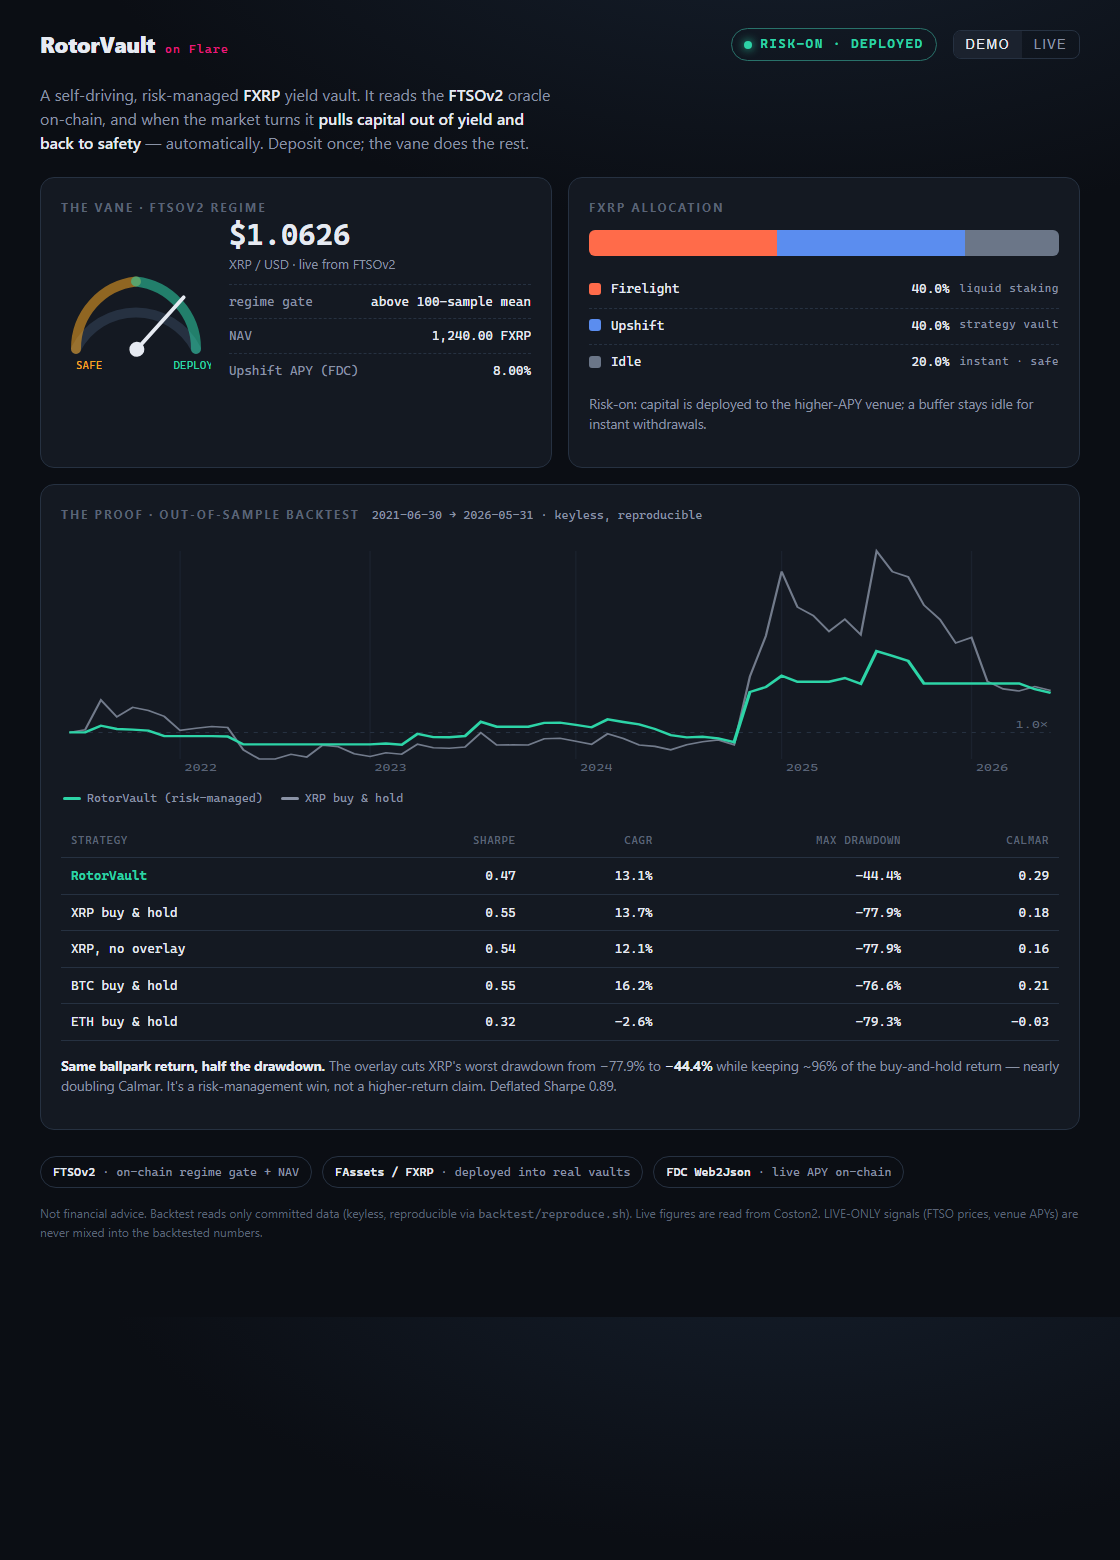
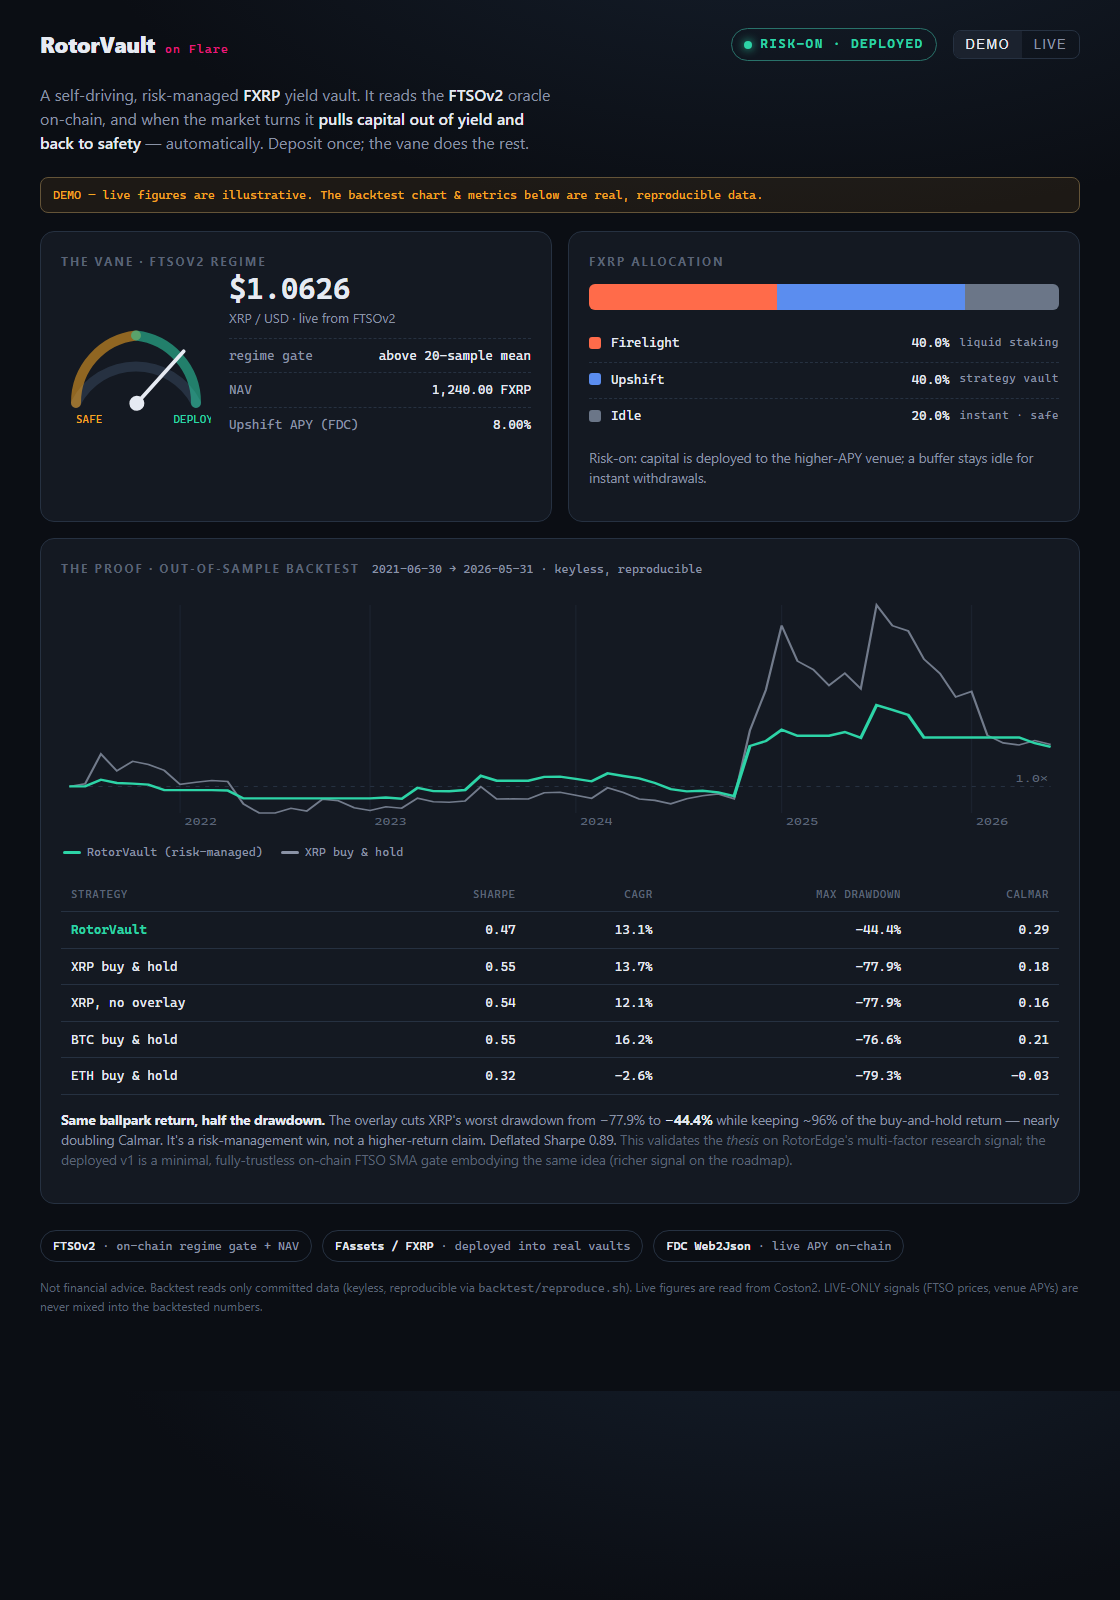
docs+web: reframe proof (thesis on RotorEdge signal vs deployed minimal v1 SMA gate); dashboard N=20 + DEMO badge + warming state

diff --git a/web/index.html b/web/index.html
@@ -143,7 +143,7 @@
           <div class="big" id="price">$1.0626</div>
           <div class="sub">XRP / USD · live from FTSOv2</div>
           <div style="height:10px"></div>
-          <div class="kv"><span class="k">regime gate</span><span class="v" id="gate">above 100-sample mean</span></div>
+          <div class="kv"><span class="k">regime gate</span><span class="v" id="gate">above 20-sample mean</span></div>
           <div class="kv"><span class="k">NAV</span><span class="v" id="nav">1,240.00 FXRP</span></div>
           <div class="kv"><span class="k">Upshift APY (FDC)</span><span class="v" id="apy">8.00%</span></div>
         </div>
@@ -184,7 +184,9 @@
     </table>
     <p class="callout"><b>Same ballpark return, half the drawdown.</b> The overlay cuts XRP's worst drawdown from
       −77.9% to <b>−44.4%</b> while keeping ~96% of the buy-and-hold return — nearly doubling Calmar. It's a
-      risk-management win, not a higher-return claim. Deflated Sharpe 0.89.</p>
+      risk-management win, not a higher-return claim. Deflated Sharpe 0.89. <span style="color:var(--faint)">This
+      validates the <i>thesis</i> on RotorEdge's multi-factor research signal; the deployed v1 is a minimal,
+      fully-trustless on-chain FTSO SMA gate embodying the same idea (richer signal on the roadmap).</span></p>
   </section>
 
   <footer>
@@ -211,7 +213,7 @@
   ];
 
   const DEMO = {
-    riskOn: true, price: 1.0626, apyBips: 800, navFxrp: 1240.0,
+    riskOn: true, ready: true, price: 1.0626, apyBips: 800, navFxrp: 1240.0,
     alloc: { firelight: 0.40, upshift: 0.40, idle: 0.20 },
   };
 
@@ -267,11 +269,12 @@
   function render(s, mode) {
     // regime + vane
     const on = s.riskOn;
+    const warming = mode === "live" && s.ready === false;
     $("regime").className = "regime " + (on ? "on" : "off");
-    $("regimeText").textContent = on ? "RISK-ON · DEPLOYED" : "RISK-OFF · SAFE";
+    $("regimeText").textContent = warming ? "WARMING · risk-off until primed" : (on ? "RISK-ON · DEPLOYED" : "RISK-OFF · SAFE");
     $("needle").style.transform = `rotate(${on ? 42 : -42}deg)`;
     $("price").textContent = "$" + s.price.toFixed(4);
-    $("gate").textContent = on ? "above 100-sample mean" : "below mean → risk-off";
+    $("gate").textContent = warming ? "warming — needs 20 samples" : (on ? "above 20-sample mean" : "below mean → risk-off");
     $("nav").textContent = fmt(s.navFxrp) + " FXRP";
     $("apy").textContent = (s.apyBips / 100).toFixed(2) + "%";
     // allocation
@@ -288,6 +291,7 @@
     // mode chrome
     $("mDemo").classList.toggle("active", mode === "demo");
     $("mLive").classList.toggle("active", mode === "live");
+    if (mode === "demo") showBanner("DEMO — live figures are illustrative. The backtest chart & metrics below are real, reproducible data.");
   }
 
   function showBanner(msg) { const b = $("banner"); if (!msg) { b.hidden = true; return; } b.hidden = false; b.textContent = msg; }

diff --git a/README.md b/README.md
@@ -28,19 +28,26 @@ real work):
 | **FAssets / FXRP** | The asset flows through the real lifecycle: deposited, **actively deployed into the live Firelight & Upshift vaults**, and redeemed — verified on Coston2, not held passively. |
 | **FDC (Web2Json)** | The live Upshift APY is brought on-chain via an FDC Web2Json attestation (`verifyWeb2Json`) so the yield-tilt reacts to real yields trustlessly. |
 
-## The proof (out-of-sample, 2021-06-30 → 2026-05-31)
+## The proof — the thesis, validated (out-of-sample 2021-06-30 → 2026-05-31)
 
-The strategy's risk overlay was validated on a keyless, reproducible backtest. **It cuts XRP's worst
+A keyless, reproducible backtest validates the *thesis* behind the vault: gating FXRP exposure by a
+market-regime signal roughly halves XRP's worst drawdown for about the same return. **It cuts XRP's
 drawdown from −77.9% to −44.4% while keeping ~96% of the buy-and-hold return** — nearly doubling Calmar.
 
 | Strategy | Sharpe | CAGR | max drawdown | Calmar |
 |---|---|---|---|---|
-| **RotorVault** | 0.47 | 13.1% | **−44.4%** | **0.29** |
+| **RotorVault (regime overlay)** | 0.47 | 13.1% | **−44.4%** | **0.29** |
 | XRP buy & hold | 0.55 | 13.7% | −77.9% | 0.18 |
 | XRP, no overlay (ablation) | 0.54 | 12.1% | −77.9% | 0.16 |
 
-Honest framing: this is a **risk-management** win, not a higher-return claim — raw Sharpe is a hair below
-HODL. Deflated Sharpe 0.89. Reproduce with zero API keys: `cd backtest && bash reproduce.sh`.
+**Backtest vs on-chain — read this.** The table validates the overlay on RotorEdge's multi-factor signal
+(BTC-vs-100d-MA regime + volatility targeting + Fear & Greed, on keyless daily data): it proves the
+*thesis* — a risk-management win, not a higher-return claim (raw Sharpe a hair below HODL; Deflated Sharpe
+0.89). The **deployed v1 contract** ships a deliberately *minimal, fully-trustless* version of that
+thesis — an FTSOv2 SMA gate computed entirely on-chain — so the −44.4% figure describes the **research
+signal, not the v1 gate's own path**. The roadmap brings the full multi-factor signal on-chain
+(agent-proposed, FTSO-verified). We flag this rather than let the number imply the contract runs it.
+Reproduce with zero API keys: `cd backtest && bash reproduce.sh`.
 
 ## Architecture
 

diff --git a/docs/pitch.md b/docs/pitch.md
@@ -28,7 +28,9 @@ promise.
 
 ## The proof point
 Out-of-sample 2021→2026, the risk overlay cut XRP's worst drawdown from **−77.9% to −44.4%** while keeping
-~96% of the buy-and-hold return — nearly doubling Calmar. Reproducible with zero API keys.
+~96% of the buy-and-hold return — nearly doubling Calmar. Reproducible with zero API keys. This validates
+the *thesis* on RotorEdge's multi-factor research signal; the deployed v1 ships a minimal, fully-trustless
+on-chain FTSO SMA gate embodying the same idea, with the richer signal on the roadmap.
 
 ## The ask
 A first-place slot in Bounty 1 — and a design partner in Flare to take the risk overlay to mainnet across
@@ -42,3 +44,7 @@ every FAsset as they go live.
   redeem and claim against the live Coston2 addresses (`0x91Bfe6…`, `0x24c1a47c…`).
 - *"Backtested returns look modest."* — By design. This is a drawdown/Calmar product; we lead with risk,
   disclose the raw-return tradeoff, and report the Deflated Sharpe.
+- *"Does the −44% number describe the deployed contract?"* — No, and we flag it up front. That figure
+  validates the *thesis* on RotorEdge's multi-factor research signal; the deployed v1 is a minimal,
+  fully-trustless FTSO SMA gate embodying the same idea. The roadmap brings the full signal on-chain
+  (agent-proposed, FTSO-verified).